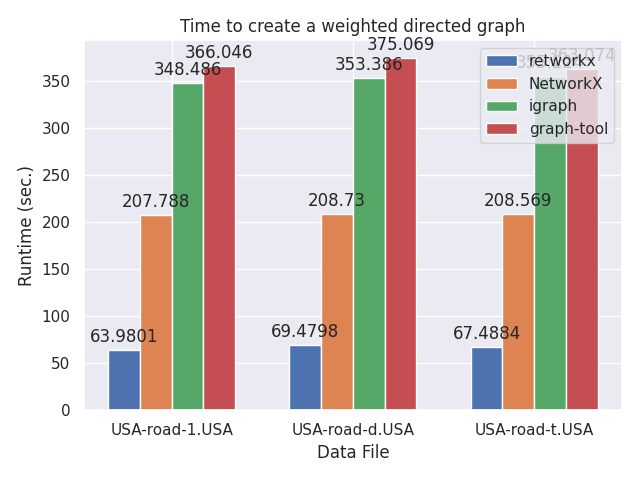
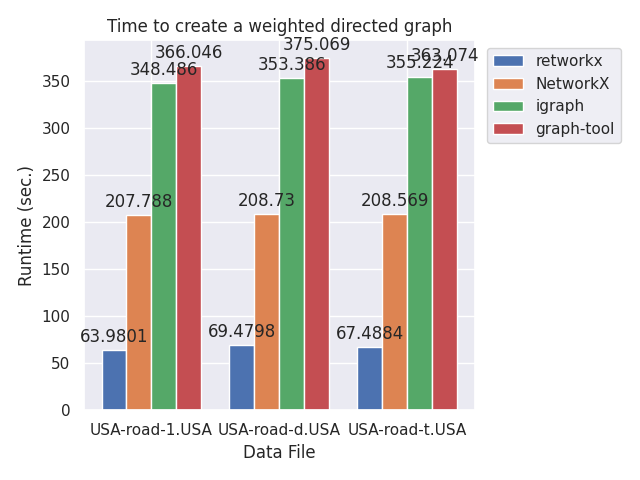
Try to avoid overlap of legends

diff --git a/results/creation.tex b/results/creation.tex
@@ -11,14 +11,22 @@
 axis background/.style={fill=color0},
 axis line style={white},
 legend cell align={left},
-legend style={fill opacity=0.8, draw opacity=1, text opacity=1, draw=white!80!black, fill=color0},
+legend style={
+  fill opacity=0.8,
+  draw opacity=1,
+  text opacity=1,
+  at={(1.01,1)},
+  anchor=north west,
+  draw=white!80!black,
+  fill=color0
+},
 tick align=outside,
 title={Time to create a weighted directed graph},
 x grid style={white},
 xlabel={Data File},
 xmajorgrids,
 xmajorticks=false,
-xmin=-0.485, xmax=2.485,
+xmin=-0.529, xmax=2.529,
 xtick style={color=white!15!black},
 xtick={0,1,2},
 xticklabels={USA-road-1.USA,USA-road-d.USA,USA-road-t.USA},
@@ -29,97 +37,97 @@ ymajorticks=false,
 ymin=0, ymax=393.822401390076,
 ytick style={color=white!15!black}
 ]
-\draw[draw=white,fill=color1] (axis cs:-0.35,0) rectangle (axis cs:-0.175,63.980140209198);
+\draw[draw=white,fill=color1] (axis cs:-0.39,0) rectangle (axis cs:-0.195,63.980140209198);
 \addlegendimage{ybar,ybar legend,draw=white,fill=color1}
 \addlegendentry{retworkx}
 
-\draw[draw=white,fill=color1] (axis cs:0.65,0) rectangle (axis cs:0.825,69.4797526359558);
-\draw[draw=white,fill=color1] (axis cs:1.65,0) rectangle (axis cs:1.825,67.4883755207062);
-\draw[draw=white,fill=color2] (axis cs:-0.175,0) rectangle (axis cs:0,207.78788523674);
+\draw[draw=white,fill=color1] (axis cs:0.61,0) rectangle (axis cs:0.805,69.4797526359558);
+\draw[draw=white,fill=color1] (axis cs:1.61,0) rectangle (axis cs:1.805,67.4883755207062);
+\draw[draw=white,fill=color2] (axis cs:-0.195,0) rectangle (axis cs:0,207.78788523674);
 \addlegendimage{ybar,ybar legend,draw=white,fill=color2}
 \addlegendentry{NetworkX}
 
-\draw[draw=white,fill=color2] (axis cs:0.825,0) rectangle (axis cs:1,208.730363130569);
-\draw[draw=white,fill=color2] (axis cs:1.825,0) rectangle (axis cs:2,208.569315099716);
-\draw[draw=white,fill=color3] (axis cs:1.38777878078145e-17,0) rectangle (axis cs:0.175,348.485842704773);
+\draw[draw=white,fill=color2] (axis cs:0.805,0) rectangle (axis cs:1,208.730363130569);
+\draw[draw=white,fill=color2] (axis cs:1.805,0) rectangle (axis cs:2,208.569315099716);
+\draw[draw=white,fill=color3] (axis cs:1.38777878078145e-17,0) rectangle (axis cs:0.195,348.485842704773);
 \addlegendimage{ybar,ybar legend,draw=white,fill=color3}
 \addlegendentry{igraph}
 
-\draw[draw=white,fill=color3] (axis cs:1,0) rectangle (axis cs:1.175,353.38560333252);
-\draw[draw=white,fill=color3] (axis cs:2,0) rectangle (axis cs:2.175,355.224029111862);
-\draw[draw=white,fill=color4] (axis cs:0.175,0) rectangle (axis cs:0.35,366.045658969879);
+\draw[draw=white,fill=color3] (axis cs:1,0) rectangle (axis cs:1.195,353.38560333252);
+\draw[draw=white,fill=color3] (axis cs:2,0) rectangle (axis cs:2.195,355.224029111862);
+\draw[draw=white,fill=color4] (axis cs:0.195,0) rectangle (axis cs:0.39,366.045658969879);
 \addlegendimage{ybar,ybar legend,draw=white,fill=color4}
 \addlegendentry{graph-tool}
 
-\draw[draw=white,fill=color4] (axis cs:1.175,0) rectangle (axis cs:1.35,375.068953704834);
-\draw[draw=white,fill=color4] (axis cs:2.175,0) rectangle (axis cs:2.35,363.073728466034);
-\draw (axis cs:-0.2625,63.980140209198) ++(0pt,3pt) node[
+\draw[draw=white,fill=color4] (axis cs:1.195,0) rectangle (axis cs:1.39,375.068953704834);
+\draw[draw=white,fill=color4] (axis cs:2.195,0) rectangle (axis cs:2.39,363.073728466034);
+\draw (axis cs:-0.2925,63.980140209198) ++(0pt,3pt) node[
   scale=0.6,
   anchor=south,
   text=white!15!black,
   rotate=0.0
 ]{63.9801};
-\draw (axis cs:0.7375,69.4797526359558) ++(0pt,3pt) node[
+\draw (axis cs:0.7075,69.4797526359558) ++(0pt,3pt) node[
   scale=0.6,
   anchor=south,
   text=white!15!black,
   rotate=0.0
 ]{69.4798};
-\draw (axis cs:1.7375,67.4883755207062) ++(0pt,3pt) node[
+\draw (axis cs:1.7075,67.4883755207062) ++(0pt,3pt) node[
   scale=0.6,
   anchor=south,
   text=white!15!black,
   rotate=0.0
 ]{67.4884};
-\draw (axis cs:-0.0875,207.78788523674) ++(0pt,3pt) node[
+\draw (axis cs:-0.0975,207.78788523674) ++(0pt,3pt) node[
   scale=0.6,
   anchor=south,
   text=white!15!black,
   rotate=0.0
 ]{207.788};
-\draw (axis cs:0.9125,208.730363130569) ++(0pt,3pt) node[
+\draw (axis cs:0.9025,208.730363130569) ++(0pt,3pt) node[
   scale=0.6,
   anchor=south,
   text=white!15!black,
   rotate=0.0
 ]{208.73};
-\draw (axis cs:1.9125,208.569315099716) ++(0pt,3pt) node[
+\draw (axis cs:1.9025,208.569315099716) ++(0pt,3pt) node[
   scale=0.6,
   anchor=south,
   text=white!15!black,
   rotate=0.0
 ]{208.569};
-\draw (axis cs:0.0875,348.485842704773) ++(0pt,3pt) node[
+\draw (axis cs:0.0975,348.485842704773) ++(0pt,3pt) node[
   scale=0.6,
   anchor=south,
   text=white!15!black,
   rotate=0.0
 ]{348.486};
-\draw (axis cs:1.0875,353.38560333252) ++(0pt,3pt) node[
+\draw (axis cs:1.0975,353.38560333252) ++(0pt,3pt) node[
   scale=0.6,
   anchor=south,
   text=white!15!black,
   rotate=0.0
 ]{353.386};
-\draw (axis cs:2.0875,355.224029111862) ++(0pt,3pt) node[
+\draw (axis cs:2.0975,355.224029111862) ++(0pt,3pt) node[
   scale=0.6,
   anchor=south,
   text=white!15!black,
   rotate=0.0
 ]{355.224};
-\draw (axis cs:0.2625,366.045658969879) ++(0pt,3pt) node[
+\draw (axis cs:0.2925,366.045658969879) ++(0pt,3pt) node[
   scale=0.6,
   anchor=south,
   text=white!15!black,
   rotate=0.0
 ]{366.046};
-\draw (axis cs:1.2625,375.068953704834) ++(0pt,3pt) node[
+\draw (axis cs:1.2925,375.068953704834) ++(0pt,3pt) node[
   scale=0.6,
   anchor=south,
   text=white!15!black,
   rotate=0.0
 ]{375.069};
-\draw (axis cs:2.2625,363.073728466034) ++(0pt,3pt) node[
+\draw (axis cs:2.2925,363.073728466034) ++(0pt,3pt) node[
   scale=0.6,
   anchor=south,
   text=white!15!black,

diff --git a/graph_results.py b/graph_results.py
@@ -68,7 +68,7 @@ def creation_time_graph():
                         statistics.mean([float(x) for x in row[1:]])
                     )
     x = np.arange(len(single_source_shortest_files))
-    width = 0.175
+    width = 0.195
     if HAS_SNS:
         sns.set_theme()
     fig, ax = plt.subplots()
@@ -84,7 +84,7 @@ def creation_time_graph():
     ax.set_xlabel("Data File")
     ax.set_xticks(x)
     ax.set_xticklabels(single_source_shortest_files)
-    ax.legend()
+    ax.legend(loc="upper left", bbox_to_anchor=(1.01,1))
 
     ax.bar_label(retworkx_rects, padding=3)
     ax.bar_label(networkx_rects, padding=3)
@@ -156,7 +156,7 @@ def single_source_graph():
     ax.set_xlabel("Data File")
     ax.set_xticks(x)
     ax.set_xticklabels(single_source_shortest_files)
-    ax.legend()
+    ax.legend(loc="upper left", bbox_to_anchor=(0.85,0.97))
 
     ax.bar_label(retworkx_rects, padding=3)
     ax.bar_label(networkx_rects, padding=3)
@@ -222,7 +222,7 @@ def single_source_graph_NY():
     ax.set_xlabel("Data File")
     ax.set_xticks(x)
     ax.set_xticklabels(single_source_shortest_files)
-    ax.legend()
+    ax.legend(loc="upper left")
 
     ax.bar_label(retworkx_rects, padding=3)
     ax.bar_label(networkx_rects, padding=3)
@@ -338,7 +338,7 @@ def isomorphism_graph():
             graph_tool_times[file_prefix] += float(row[1])
     if HAS_SNS:
         sns.set_theme()
-    fig = plt.figure(figsize=(50, 50))
+    fig = plt.figure(figsize=(25, 15))
     fig.suptitle("Subgraph Isomorphsim Runtime")
     subfigs = fig.subfigures(nrows=3, ncols=1)
     for i, percent in enumerate(["si6", "si4", "si2"]):

diff --git a/results/single_source_shortest_path.tex b/results/single_source_shortest_path.tex
@@ -11,7 +11,15 @@
 axis background/.style={fill=color0},
 axis line style={white},
 legend cell align={left},
-legend style={fill opacity=0.8, draw opacity=1, text opacity=1, draw=white!80!black, fill=color0},
+legend style={
+  fill opacity=0.8,
+  draw opacity=1,
+  text opacity=1,
+  at={(0.85,0.97)},
+  anchor=north west,
+  draw=white!80!black,
+  fill=color0
+},
 tick align=outside,
 title={Single Source Shortest path between 2 nodes},
 x grid style={white},
